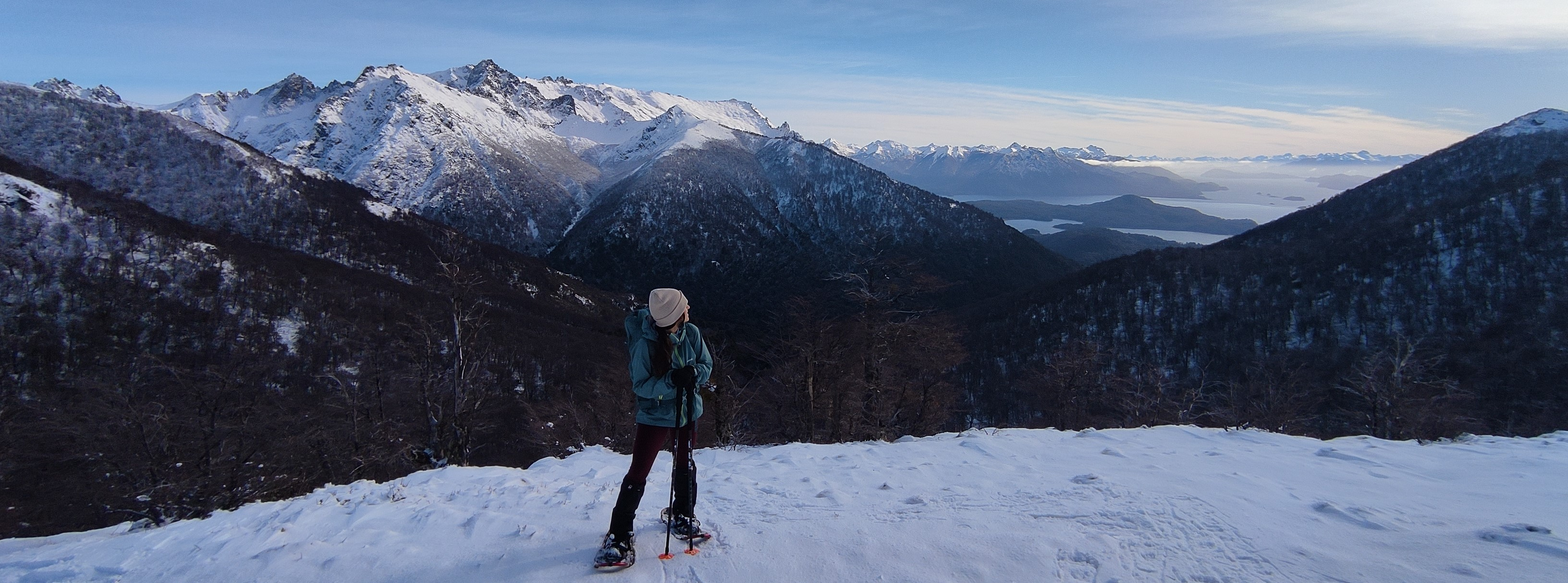
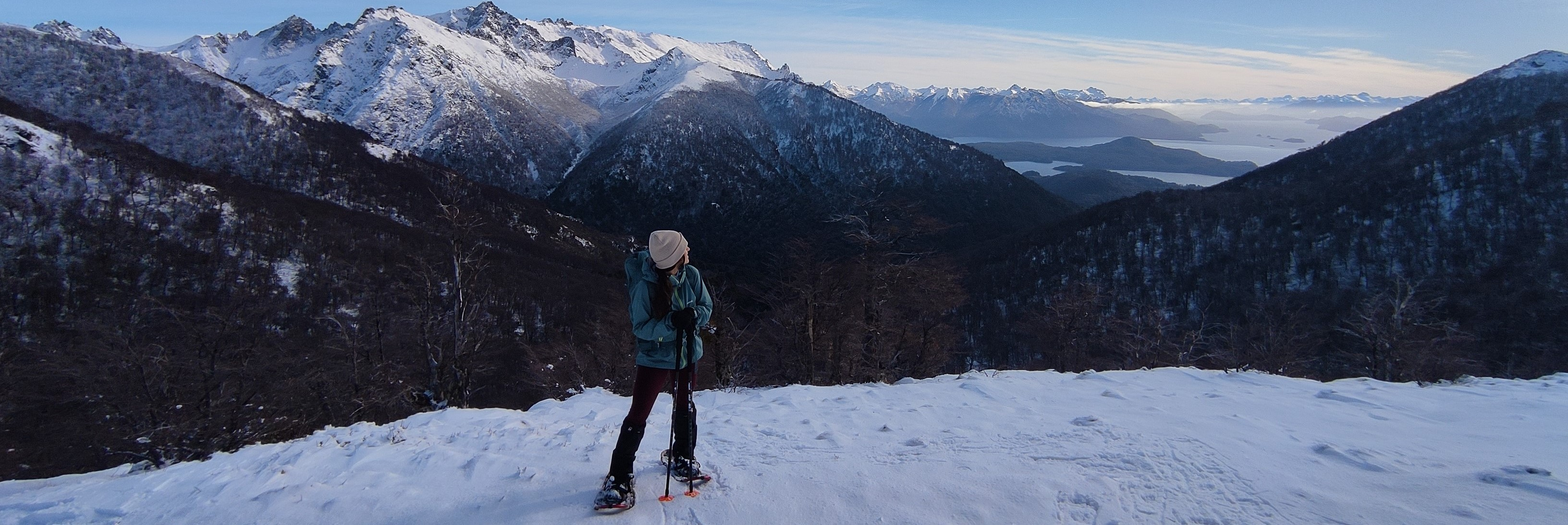
modified home carousel and equipment detail

diff --git a/src/pages/Detail/Detail.jsx b/src/pages/Detail/Detail.jsx
@@ -22,19 +22,20 @@ const Detail = () => {
         <Container className="container-custom-style custom-border-radius p-5">
             <Row>
                 <Col>
-                    <Row>
-                        <h4 className="pb-3">{equipment?.name}</h4>
-                        <img src={equipment.image} alt={equipment.name}/>
+                    <Row className="image-container">
+                        <h4 className="pb-3 fs-1">{equipment?.name}</h4>
+                        <img src={equipment.image} alt={equipment.name} className="h-75 w-auto"/>
                     </Row>
                     <Row><h3>Disponibilidad</h3></Row>
                     <Row className="py-5 my-5">
                         <MyCalendar />
                     </Row>
                 </Col>
-                <Col lg={4} xxl={3} className="py-5 equipment-details custom-border-radius">
+                <Col lg={4} xxl={3} className="py-5 equipment-details">
                     <h4>Detalles</h4>
                     <p className="text-start">$ {equipment.priceXday} el dia</p>
                     <p className="text-start">10 en stock</p>
+                    <p className="text-start">Descripcion: Lorem ipsum dolor, sit amet consectetur adipisicing elit. Earum aperiam similique beatae est, asperiores alias modi non aut dolorum, in nulla voluptates voluptate recusandae ex.</p>
                     <h5 className="pt-4">Contactenos para reservar</h5>
                     <Row>
                         <ul className="contact-list-items">

diff --git a/src/pages/Home/Home.jsx b/src/pages/Home/Home.jsx
@@ -9,17 +9,17 @@ const Home = () => {
 
   return (
     <div className="page-container">
-        <Container className='p-0 container-custom-style'>
-          <HomeCarousel />
-          <Row><h1 className='text-start mt-5 mx-5'>Nuestros equipos.</h1></Row>
-          <Row className="justify-content-between py-4 px-5">
-            { 
-              items.map((item, i) => {
-                return <EquipmentCard key={i} item={item}/>
-              })
-            }
-          </Row>
-        </Container>
+      <HomeCarousel />
+      <Container className='p-0 container-custom-style'>
+        <Row><h1 className='text-start mt-5 mx-5'>Nuestros equipos.</h1></Row>
+        <Row className="justify-content-between py-4 px-5">
+          { 
+            items.map((item, i) => {
+              return <EquipmentCard key={i} item={item}/>
+            })
+          }
+        </Row>
+      </Container>
     </div>
   )
 }

diff --git a/src/components/HomeCarousel/HomeCarousel.jsx b/src/components/HomeCarousel/HomeCarousel.jsx
@@ -1,11 +1,11 @@
 import {Carousel} from 'react-bootstrap';
-import slider1 from '../../assests/images/slider-1.jpg'
-import slider3 from '../../assests/images/slider-3.jpg'
+import slider1 from '../../assests/images/slider-1.1.jpg'
+import slider3 from '../../assests/images/slider-3.1.jpg'
 import './HomeCarousel.css'
 
 function HomeCarousel() {
   return (
-    <Carousel variant="dark" className='home-carousel'>
+    <Carousel className='home-carousel'>
       <Carousel.Item className='home-carousel-item'>
         <img
           className="d-block carousel-img m-auto"

diff --git a/src/components/Header/Header.jsx b/src/components/Header/Header.jsx
@@ -46,7 +46,7 @@ const Header = () => {
                 <NavDropdown
                       id="nav-dropdown-dark-example"
                       align="end"
-                      title='Alquiler de equipos'
+                      title='Equipos'
                       className='px-1 py-0 m-0 rent-dropdown'
                     >
                       <Dropdown.Item>

diff --git a/src/pages/Detail/Detail.css b/src/pages/Detail/Detail.css
@@ -2,7 +2,15 @@
     border-radius: 1rem;
 }
 
+.image-container {
+    display: flex;
+    justify-content: center;
+    height: 45vh;
+}
+
 .equipment-details {
     height: fit-content;
-    border: 1px solid rgb(240, 240, 240)
+    border-left: 1px solid rgb(240, 240, 240);
+    position: sticky;
+    top: 25px;
 }

diff --git a/src/components/HomeCarousel/HomeCarousel.css b/src/components/HomeCarousel/HomeCarousel.css
@@ -9,5 +9,5 @@
 }
 
 .carousel-img {
-    height: 45vh;
+    width: 100%;
 }
